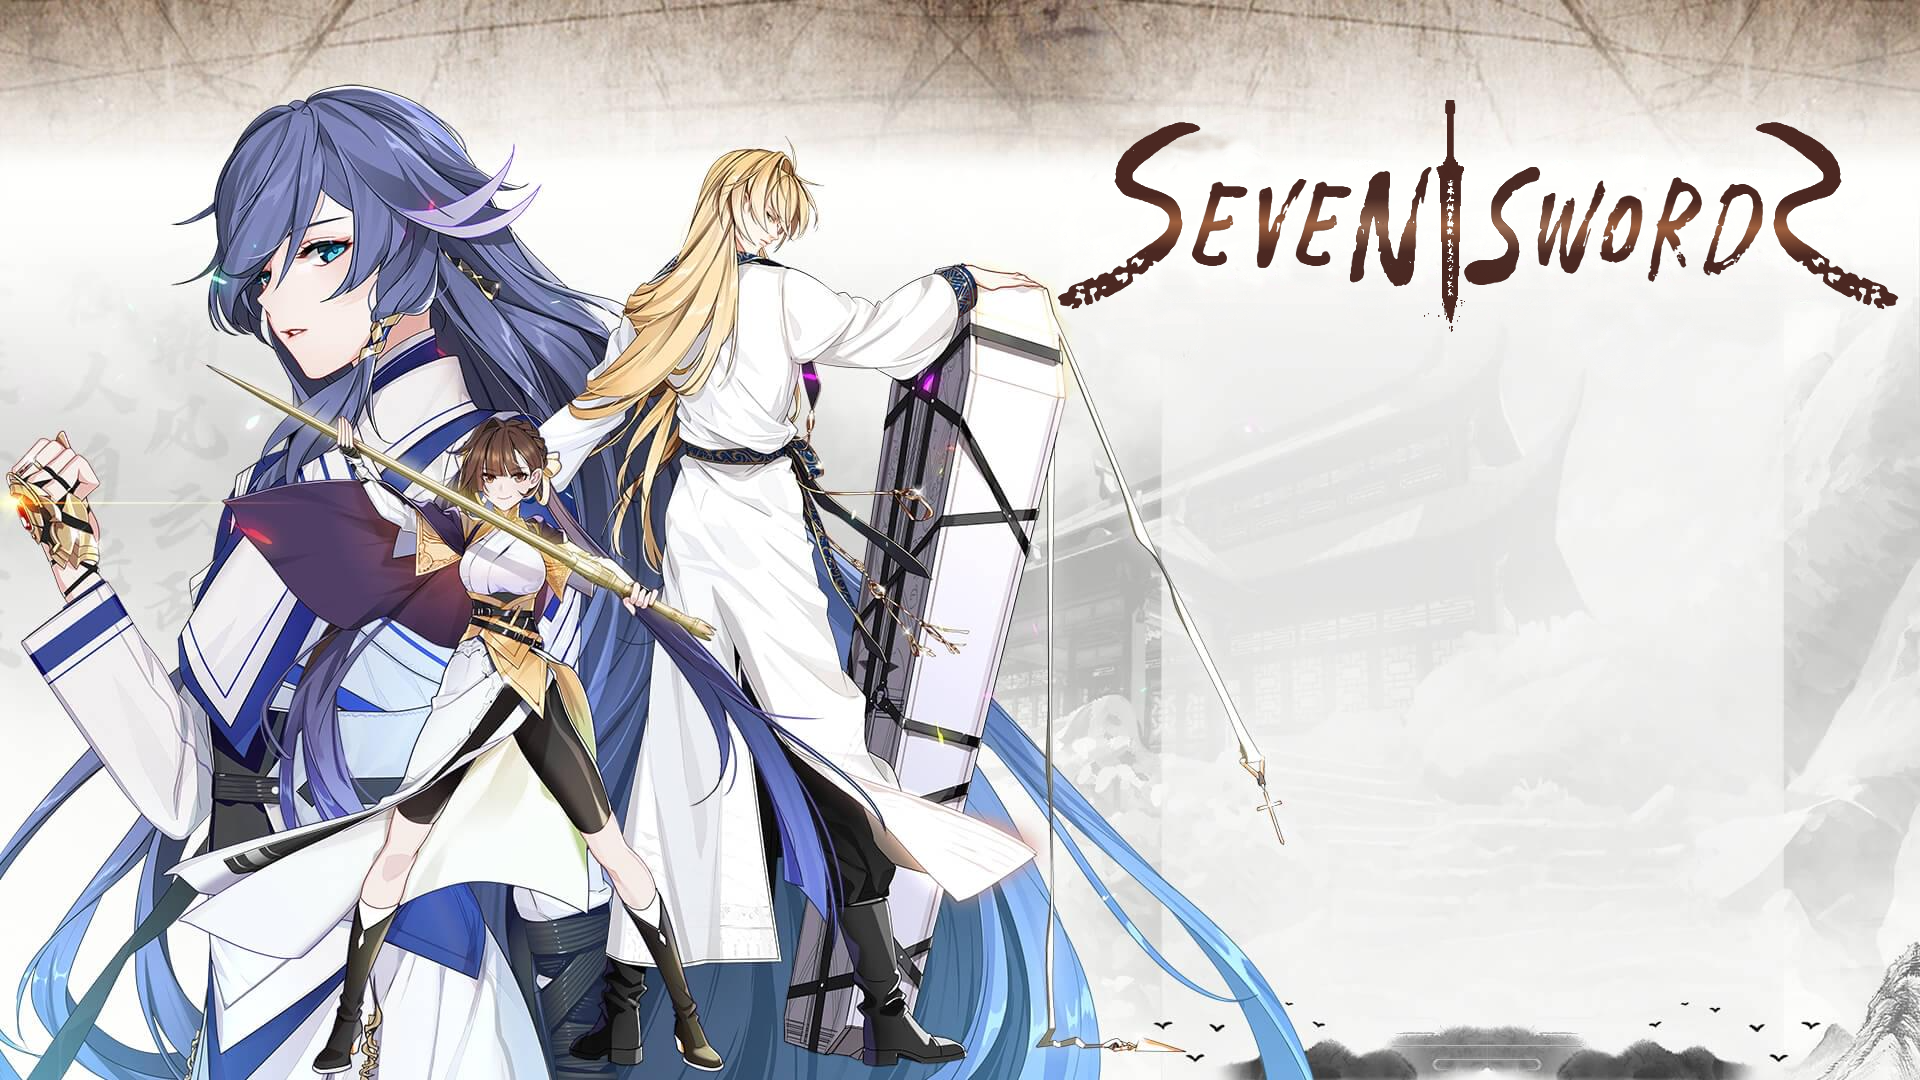
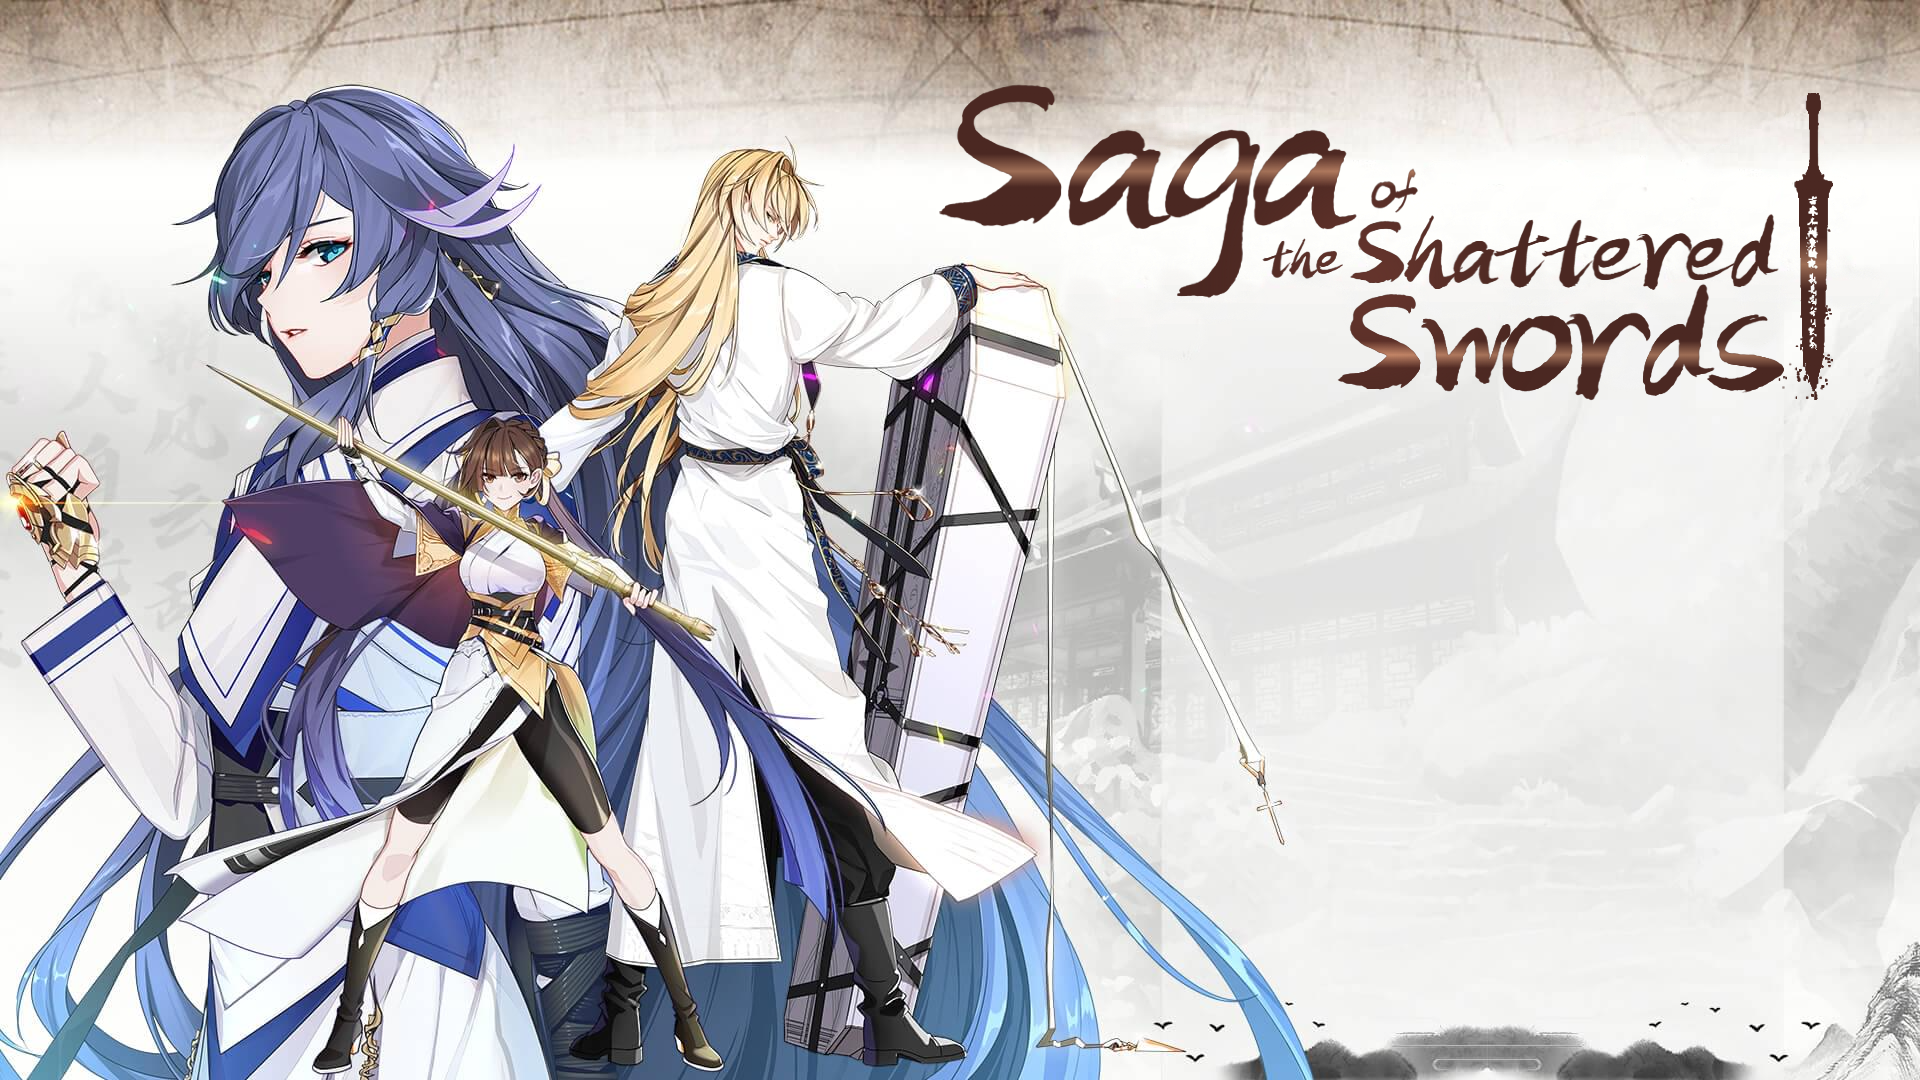
Replace 7s english title

Changed region(s): [[0.4688, 0.0611, 1.0, 0.3667], [0.5312, 0.275, 0.5625, 0.3056]]

diff --git a/src/pages/honkai3rd/media/index.tsx b/src/pages/honkai3rd/media/index.tsx
@@ -44,7 +44,7 @@ const MediaPage = () => {
             </Box>
             <Box as='li'>
               <Link href={'/honkai3rd/novels/7s'} target='_blank'>
-                🇺🇸 Seven Swords (WIP)
+                🇺🇸 Saga of the Shattered Swords (AKA Seven Swords, WIP)
               </Link>
             </Box>
             <Box as='li'>

diff --git a/public/novels/7s/en-US/index.html b/public/novels/7s/en-US/index.html
@@ -32,7 +32,7 @@
       type="image/x-icon"
       href="https://honkaiimpact3.mihoyo.com/favicon.ico"
     />
-    <title>Seven Swords - Abyss Lab</title>
+    <title>Saga of the Shattered Swords - Abyss Lab</title>
 
     <!-- 海外 -->
 

diff --git a/public/novels/7s/en-US/bundle.css b/public/novels/7s/en-US/bundle.css
@@ -13,7 +13,7 @@
 .main-menu {
   position: absolute;
   right: 2.7rem;
-  top: 3.65rem;
+  top: 4.2rem;
   -webkit-user-select: none;
   -moz-user-select: none;
   -ms-user-select: none;
